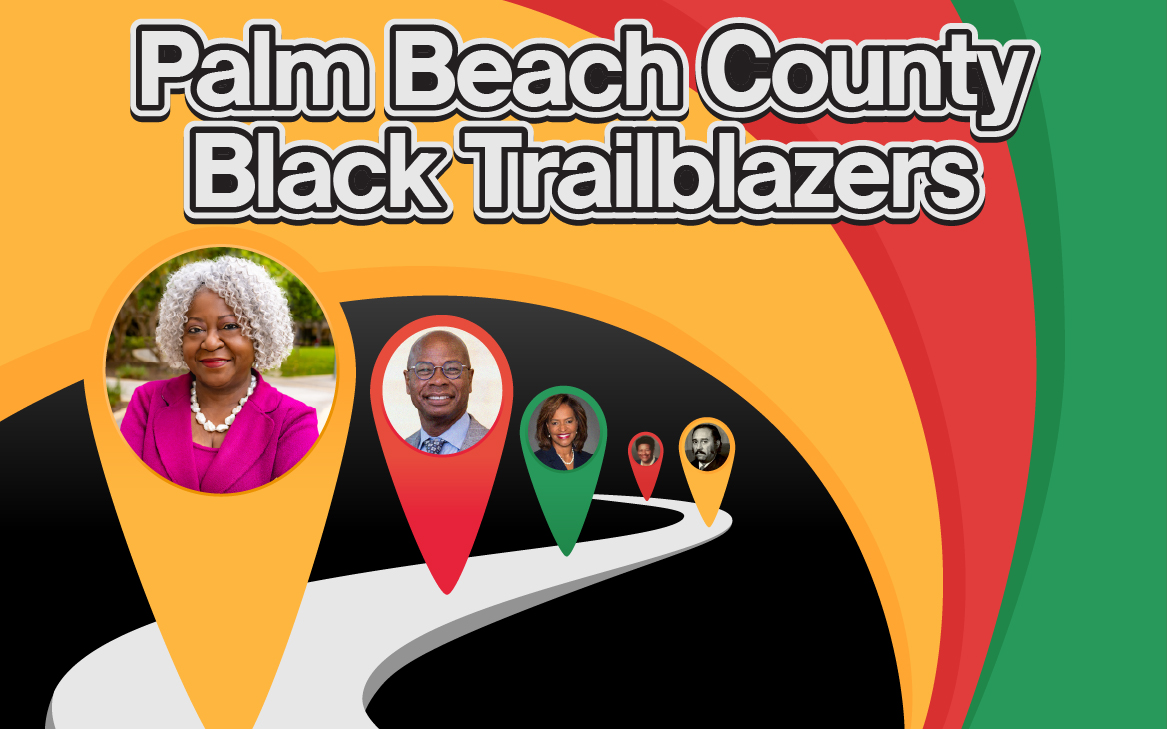
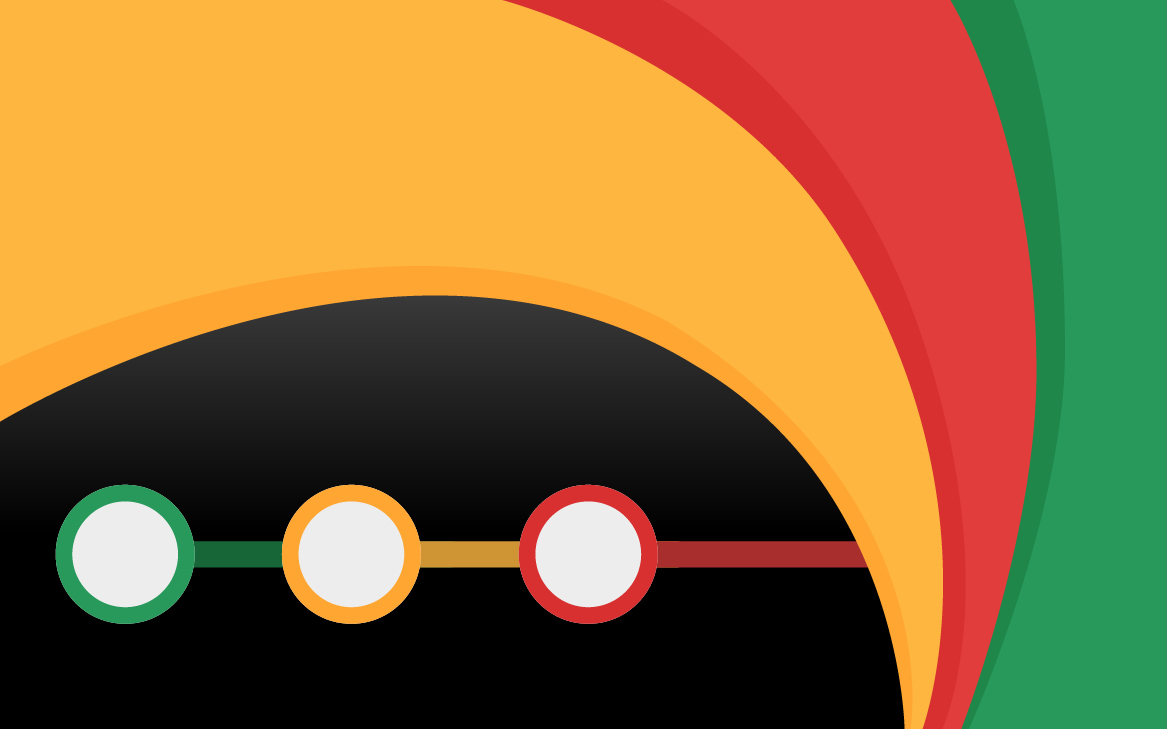
Updating the JS file and cover image.

diff --git a/js/timeline.js b/js/timeline.js
@@ -287,16 +287,14 @@
     scrollBtn.addEventListener('click', (e) => {
       e.preventDefault();
 
-      const root = document.documentElement || document.body;
+      window.scrollTo({
+        top: 0,
+        behavior: 'smooth'
+      });
 
-      if ('scrollBehavior' in document.documentElement.style) {
-        root.scrollTo({
-          top: 0,
-          behavior: 'smooth'
-        });
-      } else {
-        root.scrollTop = 0;
-      }
+      // Fallback for older browsers
+      document.documentElement.scrollTop = 0;
+      document.body.scrollTop = 0;
     });
   }
 
